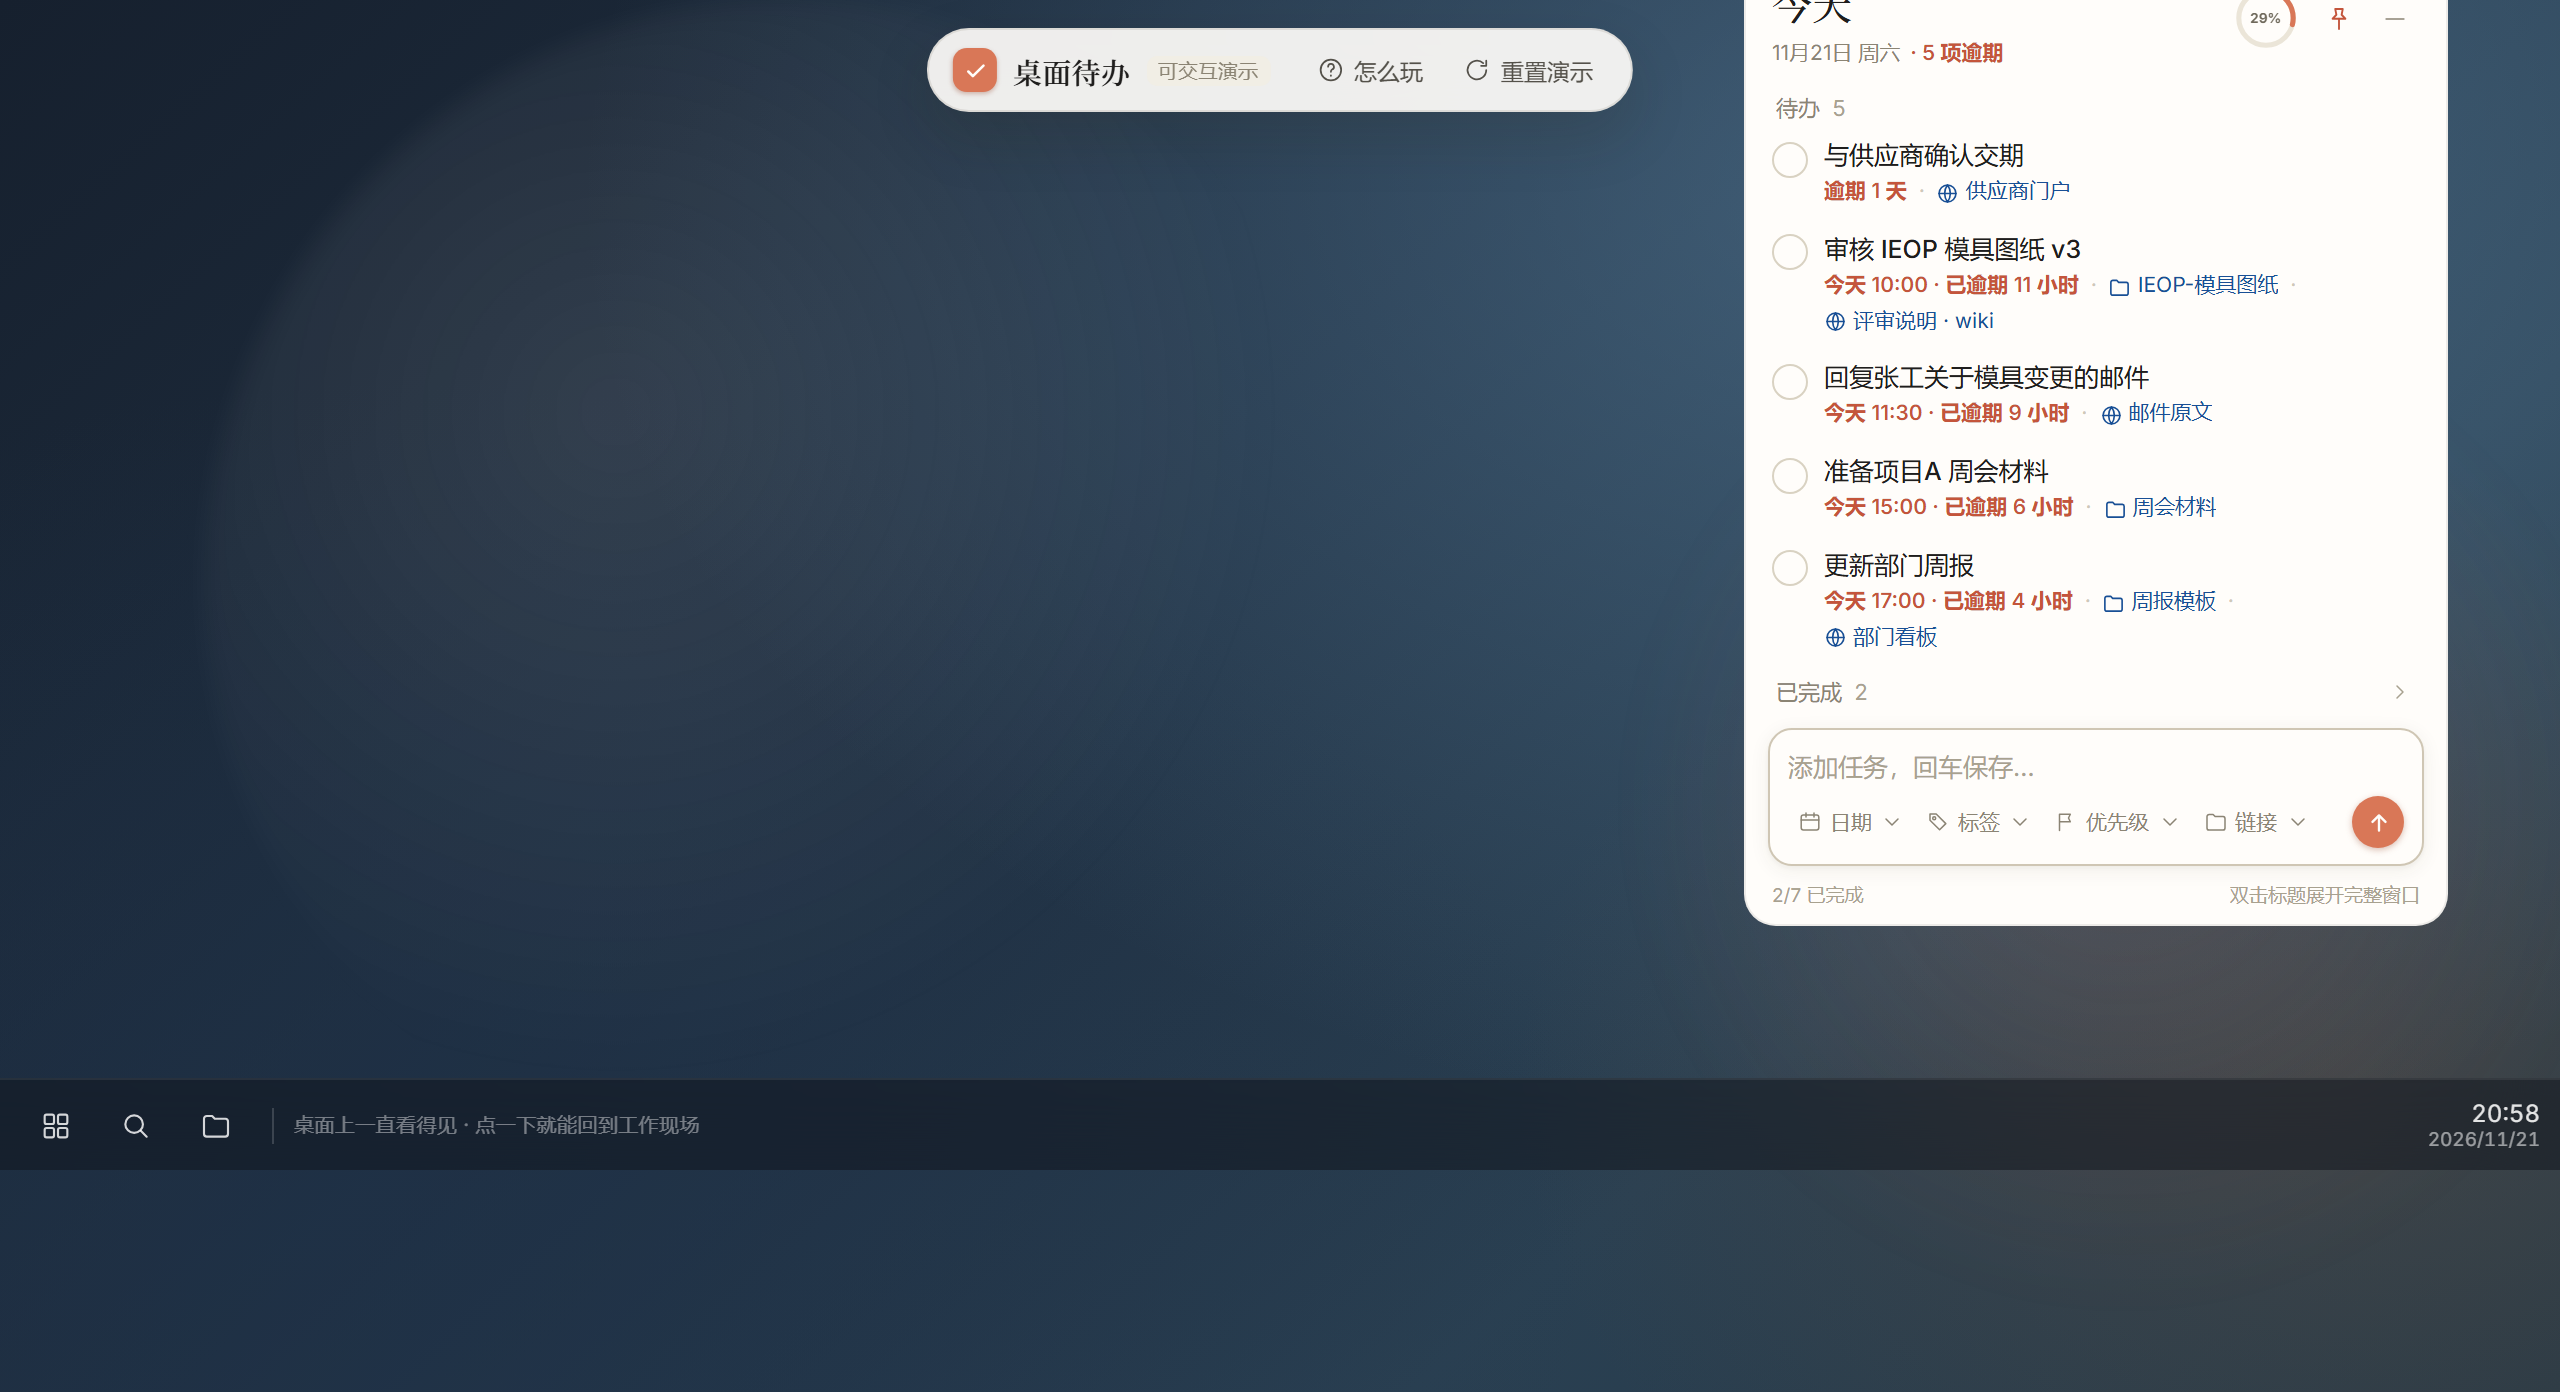
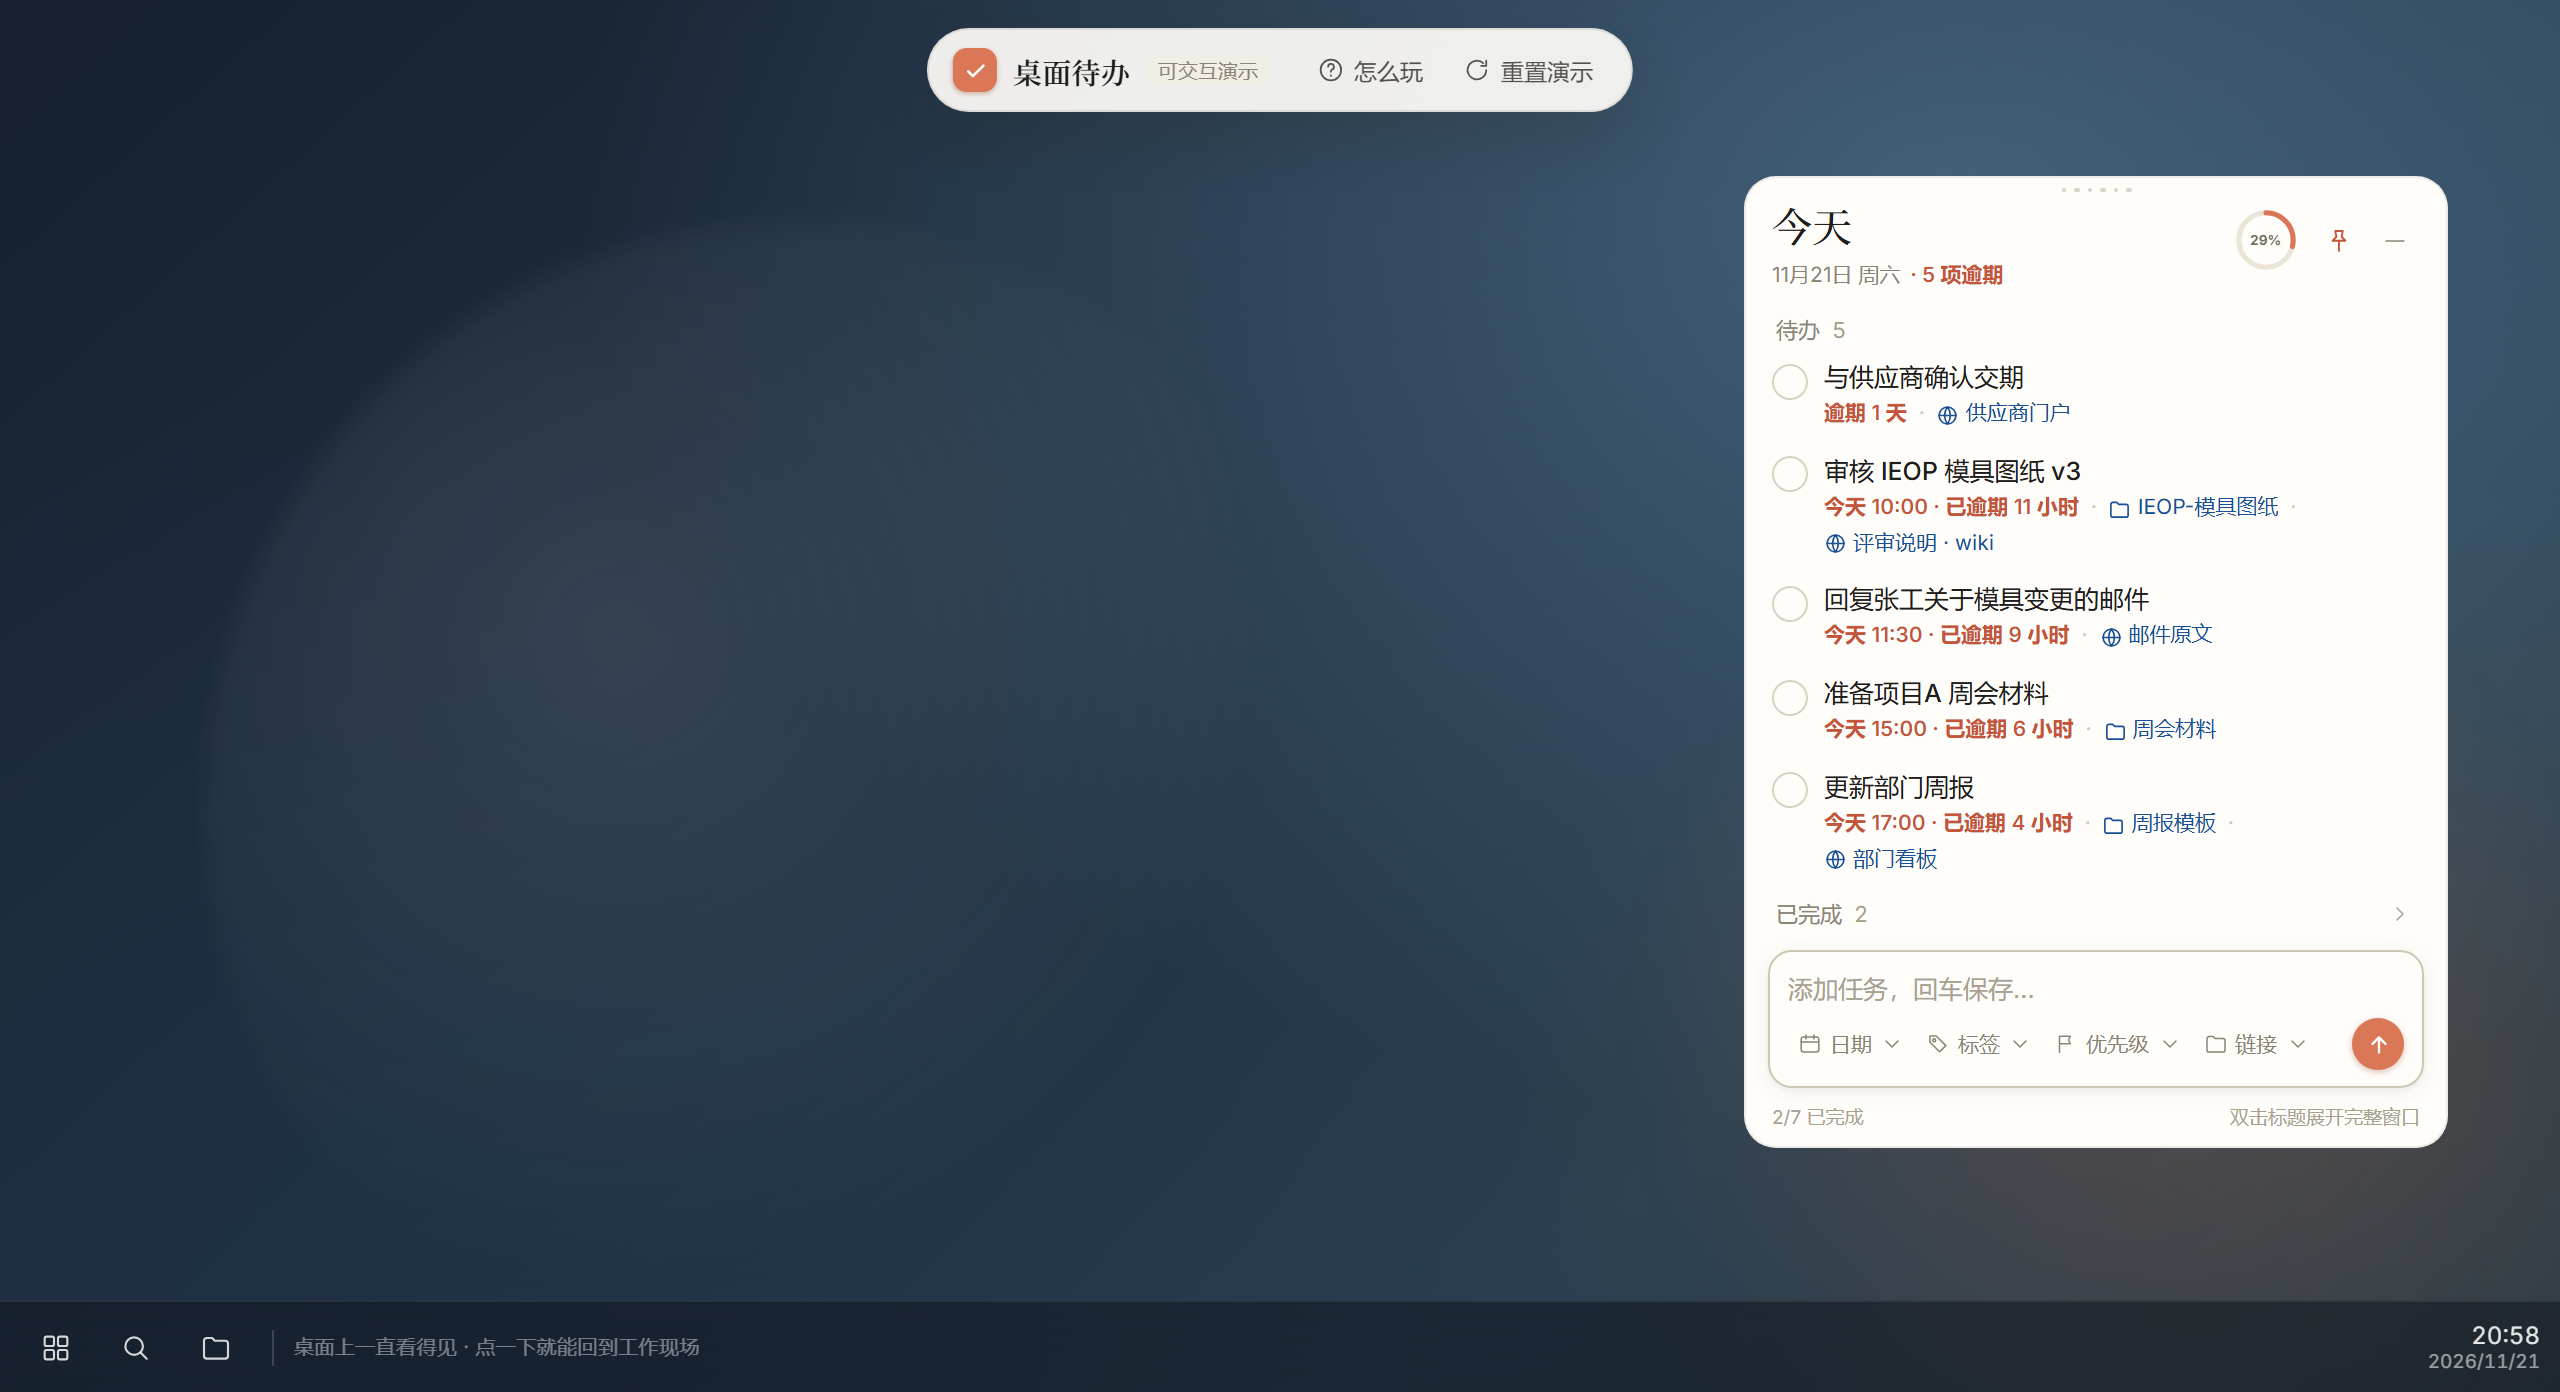
fix(design): 重导桌面挂件添加区截图，任务栏与图片底边对齐（用户 m07464）

diff --git a/design/static-prototype.html b/design/static-prototype.html
@@ -161,7 +161,7 @@ figcaption span{display:block;font-size:11.5px;line-height:1.6;color:var(--muted
 
       <figure class="wide">
         <div class="shot"><img src="app-widget-composer.png" alt="桌面挂件展开添加输入"></div>
-        <figcaption><span class="cap-no">05</span><div><b>桌面挂件 · 添加任务默认收起</b><span>底部平时只有一枚「+ 添加任务」按钮，点开才展开完整输入框（日期 / 标签 / 优先级 / 链接）。回车保存，Esc 或点挂件外收起；展开状态不写进数据，刷新后回到收起态。</span></div></figcaption>
+        <figcaption><span class="cap-no">05</span><div><b>桌面挂件 · 添加任务输入区（点开后）</b><span>底部平时只有一枚「+ 添加任务」按钮，点开才展开完整输入框（日期 / 标签 / 优先级 / 链接）。回车保存，Esc 或点挂件外收起；展开状态不写进数据，刷新后回到收起态。</span></div></figcaption>
       </figure>
     </div>
   </section>

diff --git a/design/README.md b/design/README.md
@@ -67,12 +67,12 @@ node server.mjs
 | app/ | **可交互原型 v1.4（交互与行为基准）**，以实时页面为准 |
 | index.html | 原型预览首页：一个入口指向可交互原型 / 静态原型 / 整页长图；`design/` 整目录可直接作为静态站根目录发布（GitHub Pages、Cloudflare Pages 等） |
 | static-prototype.html | **静态原型 v2.4**，同步当前界面：三形态与切换按钮、挂件添加收起、任务与链接（链接区双字段：添加行地址 + 标题、行内同时改标题与地址）、使用说明弹窗、五维筛选、管理入口、删除确认、侧栏边界 |
-| app-fullpage.webp | **唯一整页长图（视觉验收基准）**，由 static-prototype.html v2.4 等比例整页导出（因 WebP 单边上限 16383px，v2.4 整页高 9447 CSS，按整页高度等比用 dsf 1.73，输出 2725×16343） |
+| app-fullpage.webp | **唯一整页长图（视觉验收基准）**，由 static-prototype.html v2.4 等比例整页导出（因 WebP 单边上限 16383px，v2.4 整页高 9456 CSS，按整页高度等比用 dsf 1.73，输出 2725×16359） |
 | app-manager.png | 完整窗口 · 今天视图（含标题行形态按钮与关闭） |
 | app-desktop.png | 桌面挂件 · 主入口（添加区默认收起；2026-11-22 重新导出） |
 | app-capsule.png | 收起胶囊 · 只留今天进度（2026-11-22 重新导出） |
 | app-shapes.png | 完整窗口标题行局部：进度环、收起到挂件 / 胶囊、新建、关闭 |
-| app-widget-composer.png | 桌面挂件 · 点开「+ 添加任务」后的输入区 |
+| app-widget-composer.png | 桌面挂件 · 点开「+ 添加任务」后的输入区（2026-11-22 重新导出：任务栏贴底、挂件标题完整） |
 | app-editor.png | 编辑任务 · 多链接挂在任务下（链接区添加行为地址 + 标题两输入） |
 | app-editor-link-title.png | 编辑任务 · 点链接标题或路径进入行内双字段编辑（标题 + 地址） |
 | app-editor-link-fields.png | 添加链接 · 地址与标题一次填好（两输入 + 添加按钮） |
@@ -94,6 +94,6 @@ node server.mjs
 
 - 字体在 `app/fonts/` 与 `fonts/`，需与 HTML 一起拷贝，否则会回退系统字体
 - 原型数据在浏览器 localStorage（key: `desktopTodo.proto.v1`），清缓存/重置演示都会恢复 seed
-- 截图由 `app/` 当前版本真实导出（视口 1280×696 @2x，固定演示时间 2026-11-21 20:58）；文案里的「今天 / 逾期 / 时间」都以该演示时间为准，重新导出时请保持同一固定时间。2026-11-22 第一轮重新导出 manager / inbox / filter / settings-manage / sidebar-manage-entry / sidebar-overflow / manage / manage-project / delete-confirm / editor / dp-editor，并新增 app-help.png 与 app-editor-link-title.png；v1.3 链接区双字段版本再次导出 app-editor.png、app-editor-link-title.png（行内双字段编辑态）与 app-dp-editor.png（选择器打开时可见两输入添加行），并新增 app-editor-link-fields.png；其余截图（含桌面形态 app-desktop / app-capsule / app-widget-composer、app-shapes 局部裁剪与各管理弹窗）不涉及链接区交互，沿用旧图。整页长图 app-fullpage.webp 同步 v2.4 内容重新导出（`.page` 版式宽度 1575 CSS，整页高 9447 CSS，因超 WebP 单边 16383px 上限，按整页高度等比改用 dsf 1.73，输出 2725×16343）
+- 截图由 `app/` 当前版本真实导出（视口 1280×696 @2x，固定演示时间 2026-11-21 20:58）；文案里的「今天 / 逾期 / 时间」都以该演示时间为准，重新导出时请保持同一固定时间。2026-11-22 第一轮重新导出 manager / inbox / filter / settings-manage / sidebar-manage-entry / sidebar-overflow / manage / manage-project / delete-confirm / editor / dp-editor，并新增 app-help.png 与 app-editor-link-title.png；v1.3 链接区双字段版本再次导出 app-editor.png、app-editor-link-title.png（行内双字段编辑态）与 app-dp-editor.png（选择器打开时可见两输入添加行），并新增 app-editor-link-fields.png；其余截图（含桌面形态 app-desktop / app-capsule、app-shapes 局部裁剪与各管理弹窗）不涉及链接区交互，沿用旧图。整页长图 app-fullpage.webp 同步 v2.4 内容重新导出（`.page` 版式宽度 1575 CSS，整页高 9456 CSS，因超 WebP 单边 16383px 上限，按整页高度等比改用 dsf 1.73，输出 2725×16359）；2026-11-22 单独重导 app-widget-composer.png（修正导出视口偏小造成的挂件标题被裁、模拟桌面任务栏未贴底，任务栏现与图片底边对齐），并同步重导整页长图（导出方式：视口宽 1671px 使 `.page` 列宽 1575px，从 `.page` 左缘裁剪 1575 宽、整页高，dsf 1.73；导出前加 cache-bust 并等字体与全部图片 ready）
 - 桌面形态（挂件/胶囊）不使用外投影：Electron 窗口边界＝卡片边界，外投影会被裁切、只在圆角缺口露灰边；`ui/tokens.css` 的 --shadow-widget* / --shadow-capsule* 是 1px 内描边（8% / 未置顶 6% / hover 12%），与实现一致（2026-11-22 调整）
 - 静态服务器只监听 127.0.0.1，不对外网开放

diff --git a/.agents/changelog.md b/.agents/changelog.md
@@ -83,3 +83,4 @@
 2026-11-22 | update | docs/08-UI-ENGINEERING-SPEC.md, docs/02-DESIGN-SPEC.md, docs/09-PROJECT-STRUCTURE.md, docs/acceptance/screens/m06992-dp-smooth-scroll.png | 同步平滑滚动规范（08 §3.9、02 日期选择器）、登记 lib/scroll.ts 与测试、存档审计截图 | 用户 m06992 要求规范一并调整
 2026-11-22 | update | .agents/memory/decisions.md | 新增 D22（时间列表应用内平滑滚动及理由/验证） | 用户 m06992 决策记录
 2026-11-22 | repackage | release/, Desktop 交付目录, README.md, 使用说明.txt, docs/acceptance/M6-ACCEPTANCE.md | 18:25 重打包：portable 97,697,084 B / b9483529…，setup 106,248,940 B / b0d3191e…；打包版审计 74/74 PASS；更新 README 校验表/修复清单、使用说明 v18:25 与验收 §14 | 时间列表平滑滚动修复进入交付物
+2026-11-22 | update | design/app-widget-composer.png, design/app-fullpage.webp, design/static-prototype.html, design/README.md | 修正静态原型页的桌面挂件添加区截图：原图导出视口偏小（1280×696 内容被裁成 580 CSS 高再补底），挂件标题被裁、模拟桌面任务栏未贴底；按 1280×696@2x + 固定演示时间 2026-11-21 20:58 重导（实测 .taskbar bottom=696、像素底行为任务栏色），整页长图同步重导（2725×16359，整页高 9456 CSS、dsf 1.73），图注 05 改为「桌面挂件 · 添加任务输入区（点开后）」 | 用户 m07464 反馈图片中模拟桌面状态栏不在最底部
